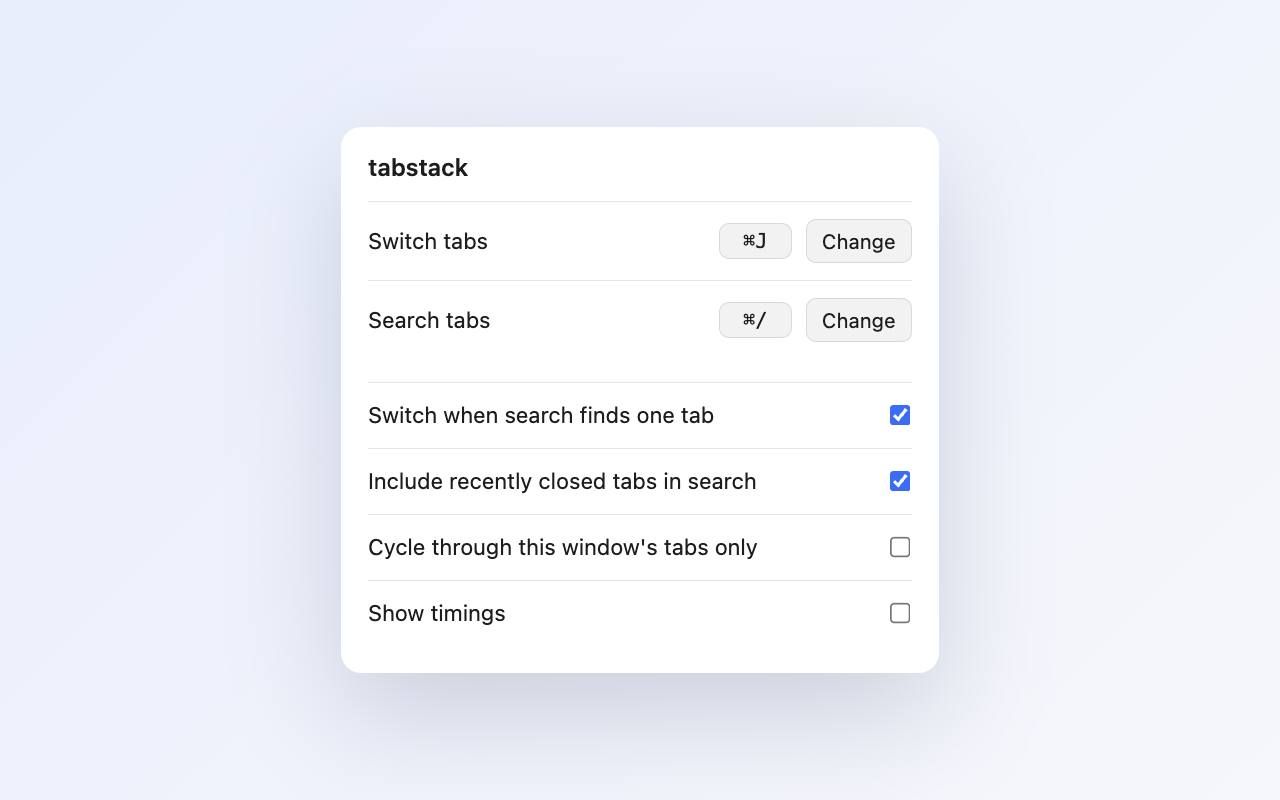
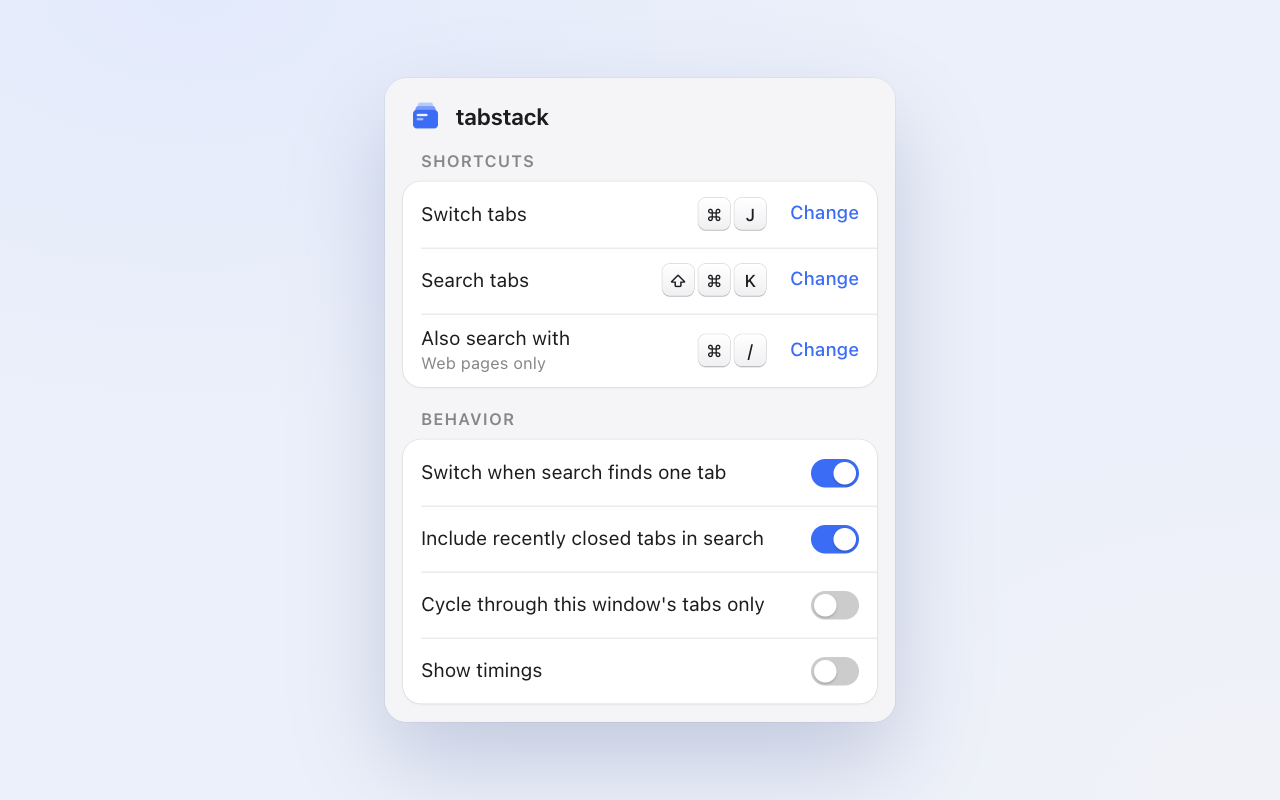
store: settings screenshot of the new popup, also shown in the README
* store: retake the settings screenshot

Changed region(s): [[0.25, 0.1562, 0.75, 0.9062], [0.5, 0.3438, 0.5938, 0.4062], [0.3125, 0.125, 0.4375, 0.1562]]

diff --git a/README.md b/README.md
@@ -37,6 +37,8 @@ Matched letters are highlighted, and tabs playing sound show a speaker. Once you
 
 ### Settings
 
+<img src="store/screenshot-4-settings.png" width="640" alt="The settings popup, with the switch and search shortcuts drawn as keycaps above four switches">
+
 The toolbar popup has these settings:
 
 - **Switch tabs** and **Search tabs** are the browser shortcuts. Firefox lets you record a new one in the popup. Chrome has no API for rebinding them, so its Change button opens `chrome://extensions/shortcuts` instead. Whichever modifier the switch shortcut uses is the one whose release ends a cycle.
